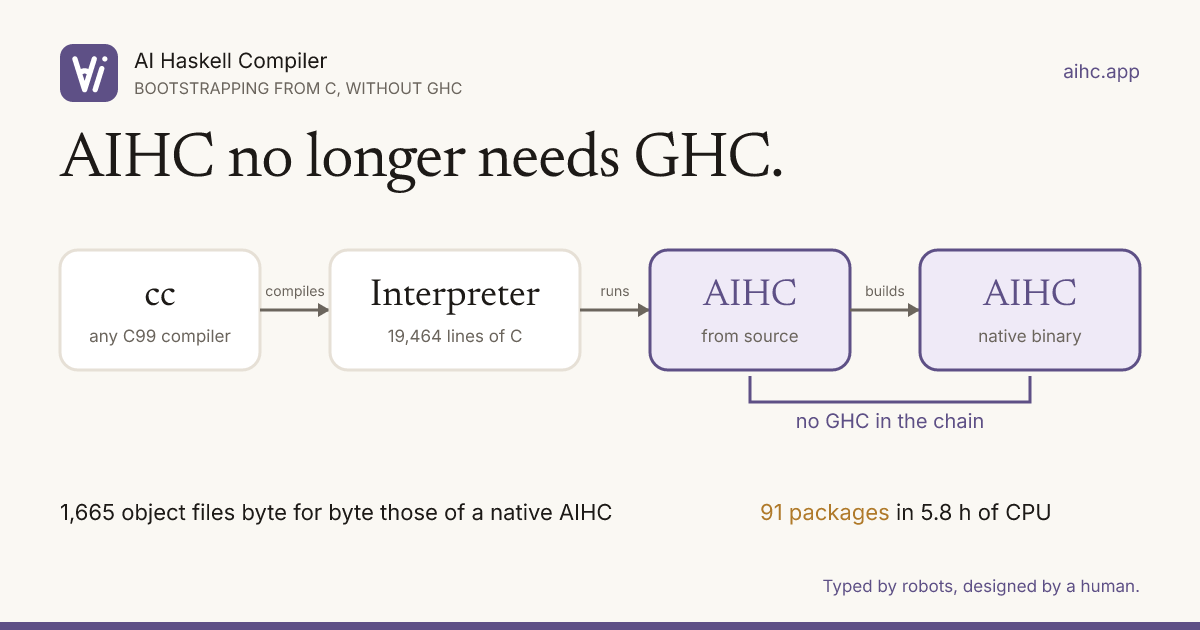
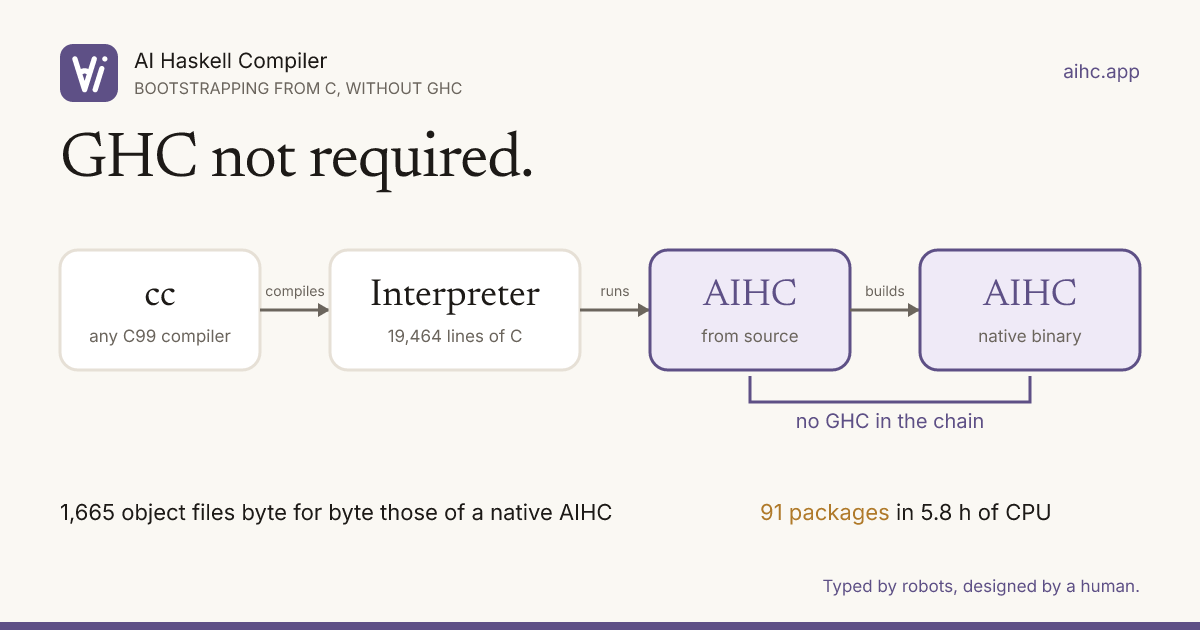
docs: retitle the bootstrap post GHC not required

Changed region(s): [[0.0308, 0.2111, 0.6475, 0.3317], [0.6167, 0.2714, 0.6475, 0.3016]]

diff --git a/scripts/c-bootstrap/README.md b/scripts/c-bootstrap/README.md
@@ -1,6 +1,6 @@
 # C bootstrap artwork
 
-The November 21 post, "No GHC required", describes
+The November 21 post, "GHC not required", describes
 [aihc-bootstrap](https://github.com/ai-haskell-compiler/aihc-bootstrap), the
 Haskell interpreter in C99 that runs AIHC. `artwork.mjs` draws its link card,
 a 1080×1920 poster and a vertical 1080×1920 H.264 loop from

diff --git a/src/content/posts/2026-11-21-ghc-not-required.md b/src/content/posts/2026-11-21-ghc-not-required.md
@@ -1,5 +1,5 @@
 ---
-title: "No GHC required"
+title: "GHC not required"
 description: "GHC was the only compiler that could build AIHC from nothing. A Haskell interpreter in 19,464 lines of C99 now runs AIHC from source, and that AIHC builds AIHC."
 date: 2026-11-21
 authors:
